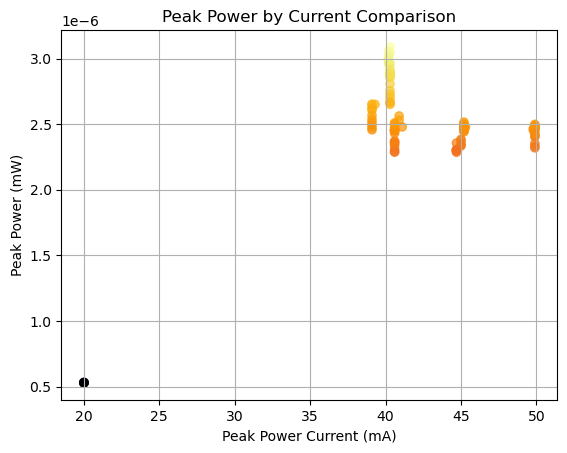
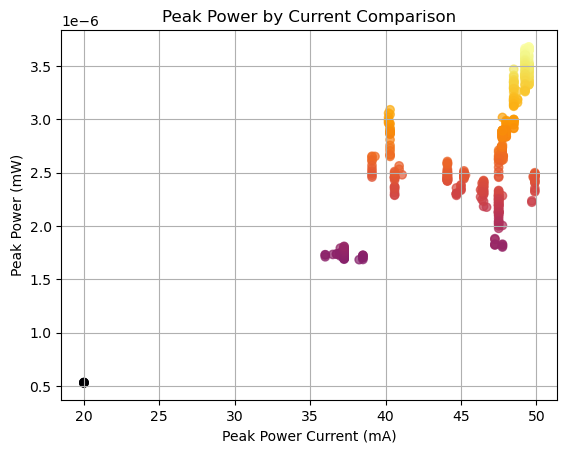
Added threshI comparison to readme

diff --git a/base_multi.py b/base_multi.py
@@ -180,7 +180,7 @@ def main():
                     print("Plotting peak power v current comparison...")
                     plot_scatter(peak_power_I, peak_power, "Peak Power Current (mA)", "Peak Power (mW)", "Peak Power by Current Comparison", "peak_power_current_comparison", parent_path)
                     print("Plotting threshold current (channel 1) by peak power comparison...")
-                    plot_scatter(IDs, ch1_threshI,"Measurement ID", "Threshold Current (mA)","Peak Power by Current Comparison", "threshI_comparison", parent_path)               
+                    plot_scatter(ch1_threshI, peak_power,"Threshold Current (mA)","Peak Power (mW)","Peak Power by Threshold current", "threshI_comparison", parent_path)               
             except Exception as e:
                 print(f"Failed to compare files.\nReason: {str(e)}\n")
     finally:

diff --git a/extract.py b/extract.py
@@ -20,7 +20,7 @@ import multi_select
 
 def extract_liv(mat_file_path):
     print("LIV Extraction")
-    vars = ['peak_power', 'peak_power_I', 'threshold_currents']
+    vars = ['peak_power', 'peak_power_I', 'threshold_ch1']
     data = read_mat_file(mat_file_path, vars)
     return data
 
@@ -33,7 +33,7 @@ def extract_osa(mat_file_path):
 
 def extract_wlm(mat_file_path):
     print("WLM Extraction")
-    vars = ['peak_power', 'peak_power_I', 'threshold_currents', 'peak_power_WL', 'peak_power_V']
+    vars = ['peak_power', 'peak_power_I', 'threshold_ch1', 'peak_power_WL', 'peak_power_V']
     data = read_mat_file(mat_file_path, vars)
     print(data)
     return data

diff --git a/liv.py b/liv.py
@@ -195,6 +195,7 @@ def process_liv(file_path_str, output_folder=None):
     else:
         print("No valid data channel found for peak power calculation.")
 
+    print(data_dict)
     # Determine the output directory
     if output_folder is not None:
         save_dir = output_folder

diff --git a/README.md b/README.md
@@ -91,3 +91,5 @@ The following plots and characteristic data (for comparison), and a .mat file co
 ### FOR LIV COMPARISONS
 "peak_power_current_comparison"<br>
 ![](https://github.com/rhiannonevans/Wafer-Scale-Laser-Integration/blob/1ec14481114dfe28c4617163fcd4c9d644a5fca5/Documentation/peak_power_current_comparison.png)<br>
+"threshI_comparison"<br>
+![](https://github.com/rhiannonevans/Wafer-Scale-Laser-Integration/blob/main/Documentation/threshI_comparison.png)<br>
